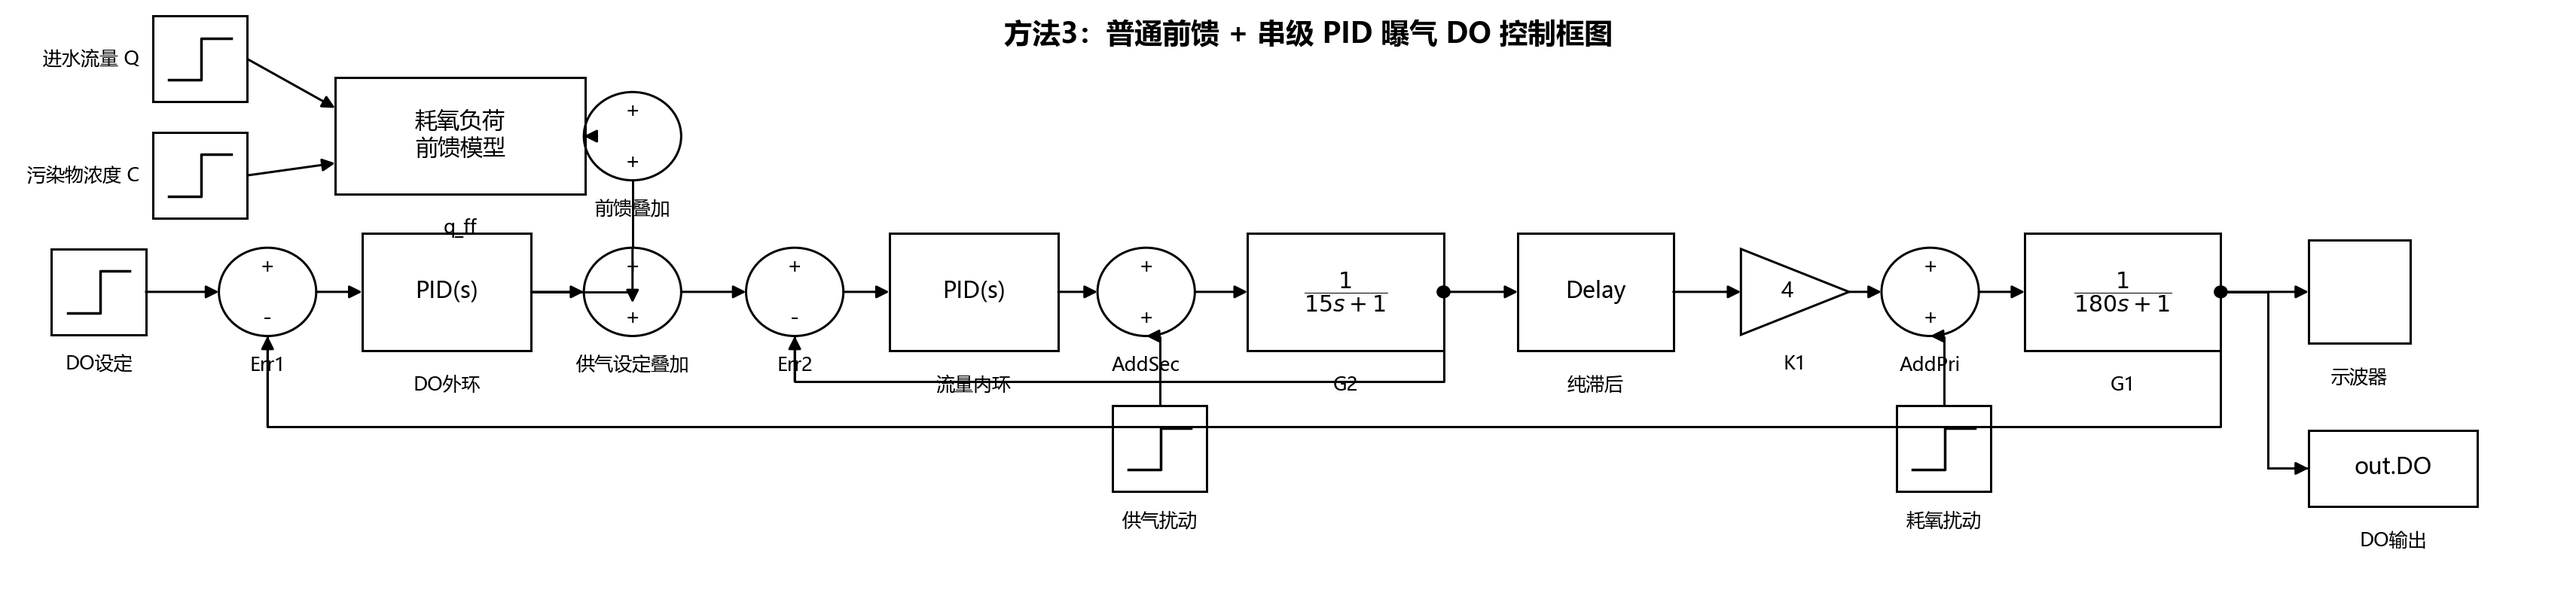
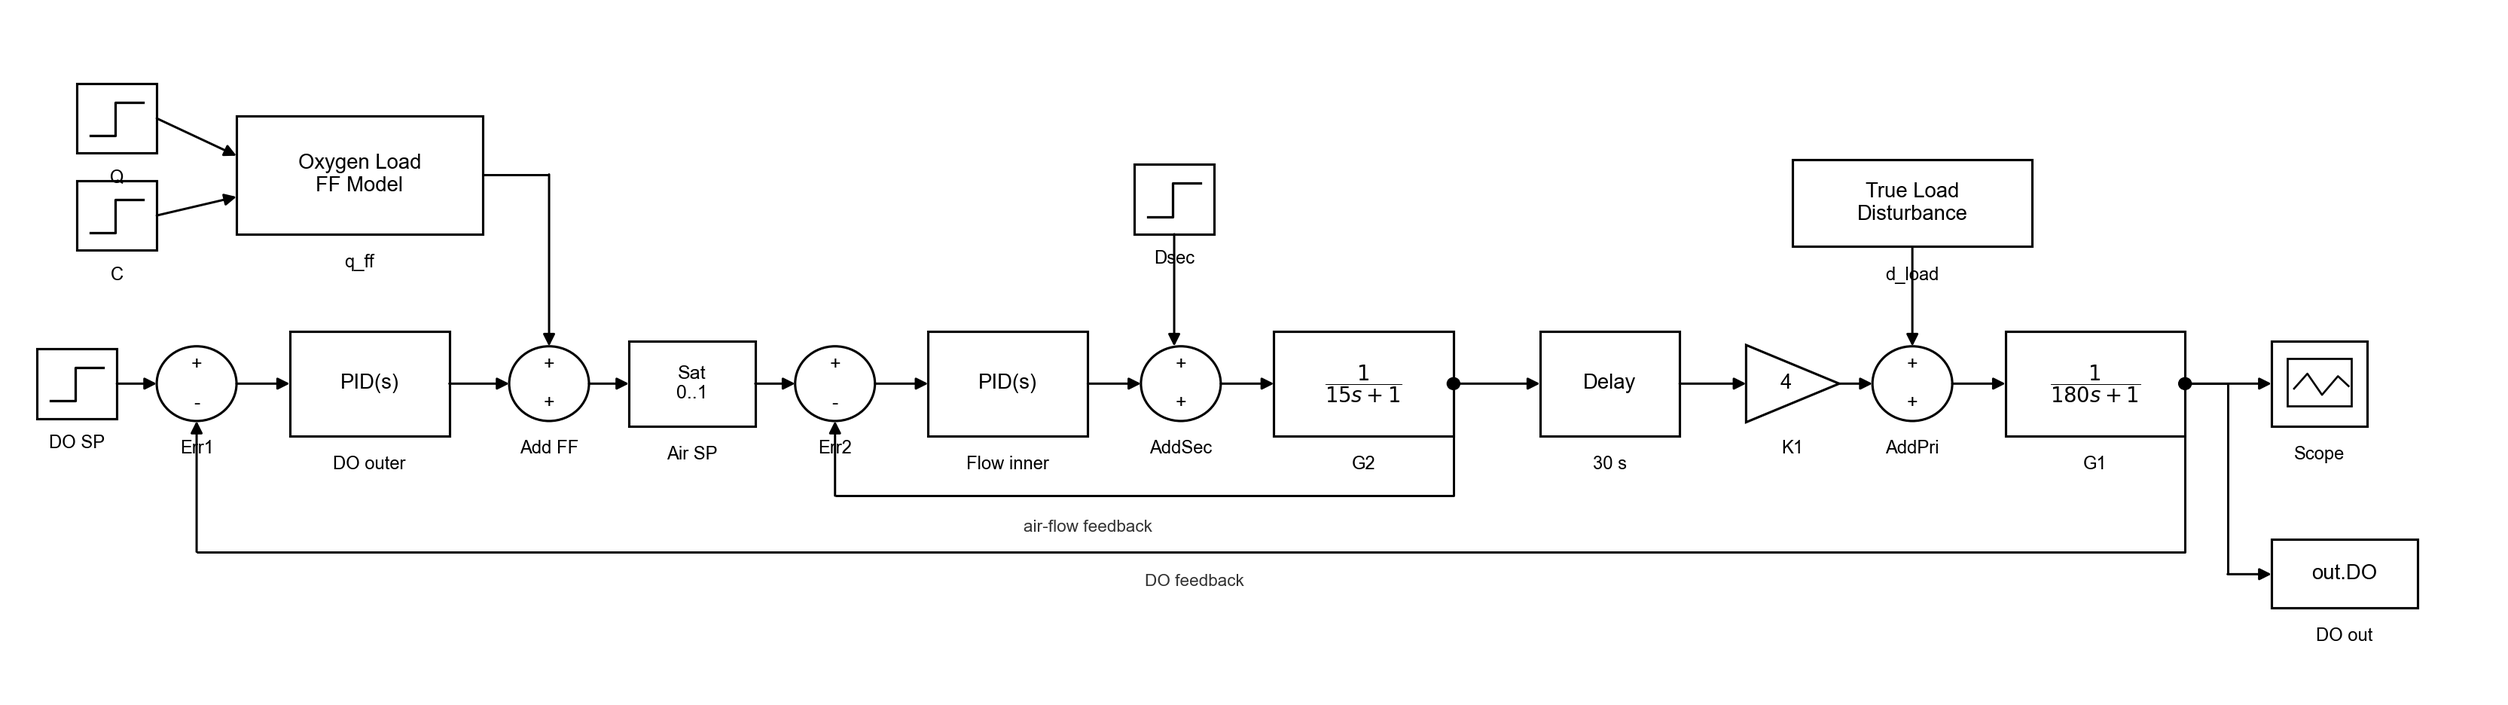
docs: redraw method3 simulink diagram

diff --git a/matlab/draw_method3_simulink_diagram.py b/matlab/draw_method3_simulink_diagram.py
@@ -1,9 +1,8 @@
 """
-Draw a Simulink-style block diagram for method 3:
-conventional feedforward + cascade PID aeration DO control.
+Draw a clean Simulink-style diagram for Method 3.
 
-Run:
-    python draw_method3_simulink_diagram.py
+Output:
+    figures/do_feedforward_cascade_diagram.png
 """
 
 from __future__ import annotations
@@ -14,68 +13,92 @@ import matplotlib.pyplot as plt
 from matplotlib.patches import Circle, Polygon, Rectangle
 
 
-def arrow(ax, start, end, **kwargs):
+def line(ax, pts, lw=1.2):
+    xs = [p[0] for p in pts]
+    ys = [p[1] for p in pts]
+    ax.plot(xs, ys, color="black", lw=lw, solid_capstyle="butt")
+
+
+def arrow(ax, start, end, lw=1.2):
     ax.annotate(
         "",
         xy=end,
         xytext=start,
         arrowprops=dict(
             arrowstyle="-|>",
-            mutation_scale=14,
-            lw=1.2,
+            mutation_scale=13,
+            lw=lw,
             color="black",
             shrinkA=0,
             shrinkB=0,
-            **kwargs,
         ),
     )
 
 
-def line(ax, xs, ys, **kwargs):
-    ax.plot(xs, ys, color="black", lw=1.2, solid_capstyle="butt", **kwargs)
+def routed_arrow(ax, pts, lw=1.2):
+    if len(pts) < 2:
+        return
+    if len(pts) > 2:
+        line(ax, pts[:-1], lw=lw)
+    arrow(ax, pts[-2], pts[-1], lw=lw)
 
 
-def block(ax, xy, wh, text, label=None, fontsize=12):
+def block(ax, xy, wh, text, label=None, fontsize=11):
     x, y = xy
     w, h = wh
-    ax.add_patch(Rectangle((x, y), w, h, fill=False, ec="black", lw=1.2))
+    ax.add_patch(Rectangle((x, y), w, h, fill=False, ec="black", lw=1.25))
     ax.text(x + w / 2, y + h / 2, text, ha="center", va="center", fontsize=fontsize)
     if label:
-        ax.text(x + w / 2, y - 0.20, label, ha="center", va="top", fontsize=10)
+        ax.text(x + w / 2, y - 0.16, label, ha="center", va="top", fontsize=9.5)
 
 
-def step_block(ax, xy, label, label_pos="below"):
+def step(ax, xy, label):
     x, y = xy
-    w, h = 0.70, 0.70
-    ax.add_patch(Rectangle((x, y), w, h, fill=False, ec="black", lw=1.2))
-    sx = [x + 0.12, x + 0.36, x + 0.36, x + 0.58]
-    sy = [y + 0.18, y + 0.18, y + 0.52, y + 0.52]
-    ax.plot(sx, sy, color="black", lw=1.4)
-    if not label:
-        return
-    if label_pos == "left":
-        ax.text(x - 0.10, y + h / 2, label, ha="right", va="center", fontsize=10)
-    elif label_pos == "right":
-        ax.text(x + w + 0.10, y + h / 2, label, ha="left", va="center", fontsize=10)
-    else:
-        ax.text(x + w / 2, y - 0.16, label, ha="center", va="top", fontsize=10)
+    w, h = 0.60, 0.56
+    ax.add_patch(Rectangle((x, y), w, h, fill=False, ec="black", lw=1.25))
+    ax.plot(
+        [x + 0.10, x + 0.29, x + 0.29, x + 0.50],
+        [y + 0.14, y + 0.14, y + 0.41, y + 0.41],
+        color="black",
+        lw=1.3,
+    )
+    ax.text(x + w / 2, y - 0.13, label, ha="center", va="top", fontsize=9.5)
 
 
-def sum_block(ax, center, signs, label):
+def scope(ax, xy, label):
+    x, y = xy
+    w, h = 0.72, 0.68
+    ax.add_patch(Rectangle((x, y), w, h, fill=False, ec="black", lw=1.25))
+    screen = Rectangle((x + 0.12, y + 0.16), w - 0.24, h - 0.30, fill=False, ec="black", lw=1.10)
+    ax.add_patch(screen)
+    ax.plot(
+        [x + 0.17, x + 0.27, x + 0.38, x + 0.50, x + 0.58],
+        [y + 0.30, y + 0.42, y + 0.25, y + 0.40, y + 0.32],
+        color="black",
+        lw=1.05,
+    )
+    ax.text(x + w / 2, y - 0.16, label, ha="center", va="top", fontsize=9.5)
+
+
+def sum_block(ax, center, label, signs=("+", "-")):
     cx, cy = center
-    r = 0.36
-    ax.add_patch(Circle((cx, cy), r, fill=False, ec="black", lw=1.2))
-    for sign, dx, dy in signs:
-        ax.text(cx + dx, cy + dy, sign, ha="center", va="center", fontsize=11)
-    ax.text(cx, cy - 0.52, label, ha="center", va="top", fontsize=10)
+    r = 0.30
+    ax.add_patch(Circle((cx, cy), r, fill=False, ec="black", lw=1.25))
+    if signs == ("+", "-"):
+        ax.text(cx, cy + 0.15, "+", ha="center", va="center", fontsize=10)
+        ax.text(cx, cy - 0.16, "-", ha="center", va="center", fontsize=10)
+    elif signs == ("+", "+"):
+        ax.text(cx, cy + 0.15, "+", ha="center", va="center", fontsize=10)
+        ax.text(cx, cy - 0.16, "+", ha="center", va="center", fontsize=10)
+    ax.text(cx, cy - 0.45, label, ha="center", va="top", fontsize=9.5)
 
 
-def gain_triangle(ax, xy, text, label):
+def gain(ax, xy, text, label):
     x, y = xy
-    tri = Polygon([[x, y], [x, y + 0.70], [x + 0.80, y + 0.35]], fill=False, ec="black", lw=1.2)
+    tri = Polygon([[x, y], [x, y + 0.62], [x + 0.70, y + 0.31]], fill=False, ec="black", lw=1.25)
     ax.add_patch(tri)
-    ax.text(x + 0.34, y + 0.35, text, ha="center", va="center", fontsize=11)
-    ax.text(x + 0.40, y - 0.16, label, ha="center", va="top", fontsize=10)
+    ax.text(x + 0.30, y + 0.31, text, ha="center", va="center", fontsize=11)
+    ax.text(x + 0.35, y - 0.14, label, ha="center", va="top", fontsize=9.5)
 
 
 def dot(ax, xy):
@@ -87,89 +110,74 @@ def main() -> None:
     out = here / "figures" / "do_feedforward_cascade_diagram.png"
     out.parent.mkdir(parents=True, exist_ok=True)
 
-    plt.rcParams["font.sans-serif"] = ["Microsoft YaHei", "SimHei", "Arial Unicode MS", "DejaVu Sans"]
+    plt.rcParams["font.sans-serif"] = ["Arial", "DejaVu Sans"]
     plt.rcParams["axes.unicode_minus"] = False
 
-    fig, ax = plt.subplots(figsize=(19.0, 4.4), facecolor="white")
+    fig, ax = plt.subplots(figsize=(18.5, 5.2), facecolor="white")
     ax.set_xlim(0, 18.8)
-    ax.set_ylim(0, 4.8)
+    ax.set_ylim(0, 5.6)
     ax.axis("off")
 
-    y = 2.45
+    y = 2.55
 
     # Main cascade path.
-    step_block(ax, (0.15, y - 0.35), "DO设定")
-    sum_block(ax, (1.75, y), [("+", 0.00, 0.20), ("-", 0.00, -0.22)], "Err1")
-    block(ax, (2.45, y - 0.48), (1.25, 0.96), "PID(s)", "DO外环")
-    sum_block(ax, (4.45, y), [("+", 0.00, 0.20), ("+", 0.00, -0.22)], "供气设定叠加")
-    sum_block(ax, (5.65, y), [("+", 0.00, 0.20), ("-", 0.00, -0.22)], "Err2")
-    block(ax, (6.35, y - 0.48), (1.25, 0.96), "PID(s)", "流量内环")
-    sum_block(ax, (8.25, y), [("+", 0.00, 0.20), ("+", 0.00, -0.22)], "AddSec")
-    block(ax, (9.00, y - 0.48), (1.45, 0.96), r"$\dfrac{1}{15s+1}$", "G2")
-    block(ax, (11.00, y - 0.48), (1.15, 0.96), "Delay", "纯滞后")
-    gain_triangle(ax, (12.65, y - 0.35), "4", "K1")
-    sum_block(ax, (14.05, y), [("+", 0.00, 0.20), ("+", 0.00, -0.22)], "AddPri")
-    block(ax, (14.75, y - 0.48), (1.45, 0.96), r"$\dfrac{1}{180s+1}$", "G1")
-    block(ax, (16.85, y - 0.42), (0.75, 0.84), "", "示波器")
-    block(ax, (16.85, 0.70), (1.25, 0.62), "out.DO", "DO输出")
+    step(ax, (0.25, y - 0.28), "DO SP")
+    sum_block(ax, (1.45, y), "Err1", ("+", "-"))
+    block(ax, (2.15, y - 0.42), (1.20, 0.84), "PID(s)", "DO outer")
+    sum_block(ax, (4.10, y), "Add FF", ("+", "+"))
+    block(ax, (4.70, y - 0.34), (0.95, 0.68), "Sat\n0..1", "Air SP", fontsize=10)
+    sum_block(ax, (6.25, y), "Err2", ("+", "-"))
+    block(ax, (6.95, y - 0.42), (1.20, 0.84), "PID(s)", "Flow inner")
+    sum_block(ax, (8.85, y), "AddSec", ("+", "+"))
+    block(ax, (9.55, y - 0.42), (1.35, 0.84), r"$\dfrac{1}{15s+1}$", "G2")
+    block(ax, (11.55, y - 0.42), (1.05, 0.84), "Delay", "30 s")
+    gain(ax, (13.10, y - 0.31), "4", "K1")
+    sum_block(ax, (14.35, y), "AddPri", ("+", "+"))
+    block(ax, (15.05, y - 0.42), (1.35, 0.84), r"$\dfrac{1}{180s+1}$", "G1")
+    scope(ax, (17.05, y - 0.34), "Scope")
+    block(ax, (17.05, 0.75), (1.10, 0.55), "out.DO", "DO out")
 
-    # Main arrows.
-    arrow(ax, (0.85, y), (1.39, y))
-    arrow(ax, (2.11, y), (2.45, y))
-    arrow(ax, (3.70, y), (4.09, y))
-    arrow(ax, (4.81, y), (5.29, y))
-    arrow(ax, (6.01, y), (6.35, y))
-    arrow(ax, (7.60, y), (7.89, y))
-    arrow(ax, (8.61, y), (9.00, y))
-    arrow(ax, (10.45, y), (11.00, y))
-    arrow(ax, (12.15, y), (12.65, y))
-    arrow(ax, (13.45, y), (13.69, y))
-    arrow(ax, (14.41, y), (14.75, y))
-    arrow(ax, (16.20, y), (16.85, y))
-    line(ax, [16.20, 16.55, 16.55, 16.85], [y, y, 1.01, 1.01])
-    arrow(ax, (16.55, 1.01), (16.85, 1.01))
+    # Main signal arrows.
+    arrow(ax, (0.85, y), (1.15, y))
+    arrow(ax, (1.75, y), (2.15, y))
+    arrow(ax, (3.35, y), (3.80, y))
+    arrow(ax, (4.40, y), (4.70, y))
+    arrow(ax, (5.65, y), (5.95, y))
+    arrow(ax, (6.55, y), (6.95, y))
+    arrow(ax, (8.15, y), (8.55, y))
+    arrow(ax, (9.15, y), (9.55, y))
+    arrow(ax, (10.90, y), (11.55, y))
+    arrow(ax, (12.60, y), (13.10, y))
+    arrow(ax, (13.80, y), (14.05, y))
+    arrow(ax, (14.65, y), (15.05, y))
+    arrow(ax, (16.40, y), (17.05, y))
+    routed_arrow(ax, [(16.40, y), (16.72, y), (16.72, 1.02), (17.05, 1.02)])
 
-    # Secondary and primary disturbances.
-    step_block(ax, (8.00, 0.82), "供气扰动")
-    line(ax, [8.35, 8.35], [1.52, 2.09])
-    arrow(ax, (8.35, 2.09), (8.25, 2.09))
+    # Feedforward layer.
+    step(ax, (0.55, 4.40), "Q")
+    step(ax, (0.55, 3.62), "C")
+    block(ax, (1.75, 3.75), (1.85, 0.95), "Oxygen Load\nFF Model", "q_ff")
+    routed_arrow(ax, [(1.15, 4.68), (1.75, 4.38)])
+    routed_arrow(ax, [(1.15, 3.90), (1.75, 4.05)])
+    routed_arrow(ax, [(3.60, 4.23), (4.10, 4.23), (4.10, 2.85)])
 
-    step_block(ax, (13.80, 0.82), "耗氧扰动")
-    line(ax, [14.15, 14.15], [1.52, 2.09])
-    arrow(ax, (14.15, 2.09), (14.05, 2.09))
+    # Optional air-side disturbance, routed from above to avoid feedback lines.
+    step(ax, (8.50, 3.75), "Dsec")
+    routed_arrow(ax, [(8.80, 3.75), (8.80, 2.85)])
 
-    # Feedforward branch.
-    step_block(ax, (0.90, 4.00), "进水流量 Q", label_pos="left")
-    step_block(ax, (0.90, 3.05), "污染物浓度 C", label_pos="left")
-    block(ax, (2.25, 3.25), (1.85, 0.95), "耗氧负荷\n前馈模型", "q_ff")
-    sum_block(ax, (4.45, 3.72), [("+", 0.00, 0.20), ("+", 0.00, -0.22)], "前馈叠加")
+    # Primary oxygen-load disturbance, also routed from above.
+    block(ax, (13.45, 3.65), (1.80, 0.70), "True Load\nDisturbance", "d_load")
+    routed_arrow(ax, [(14.35, 3.65), (14.35, 2.85)])
 
-    arrow(ax, (1.60, 4.35), (2.25, 3.95))
-    arrow(ax, (1.60, 3.40), (2.25, 3.50))
-    arrow(ax, (4.10, 3.72), (4.09, 3.72))
-    line(ax, [4.45, 4.45], [3.36, 2.81])
-    arrow(ax, (4.45, 2.81), (4.45, 2.36))
-    line(ax, [3.70, 4.45], [y, y])
+    # Inner-loop flow feedback: separate level.
+    dot(ax, (10.90, y))
+    routed_arrow(ax, [(10.90, y), (10.90, 1.65), (6.25, 1.65), (6.25, 2.25)])
+    ax.text(8.15, 1.46, "air-flow feedback", ha="center", va="top", fontsize=9, color="#333333")
 
-    # Inner-loop flow feedback from G2 output to Err2 negative input.
-    dot(ax, (10.45, y))
-    line(ax, [10.45, 10.45, 5.65, 5.65], [y, 1.72, 1.72, 2.09])
-    arrow(ax, (5.65, 1.72), (5.65, 2.09))
-
-    # DO feedback to outer loop negative input.
-    dot(ax, (16.20, y))
-    line(ax, [16.20, 16.20, 1.75, 1.75], [y, 1.35, 1.35, 2.09])
-    arrow(ax, (1.75, 1.35), (1.75, 2.09))
-
-    ax.text(
-        9.45,
-        4.55,
-        "方法3：普通前馈 + 串级 PID 曝气 DO 控制框图",
-        ha="center",
-        va="center",
-        fontsize=15,
-        fontweight="bold",
-    )
+    # DO feedback: lower separate level.
+    dot(ax, (16.40, y))
+    routed_arrow(ax, [(16.40, y), (16.40, 1.20), (1.45, 1.20), (1.45, 2.25)])
+    ax.text(8.95, 1.02, "DO feedback", ha="center", va="top", fontsize=9, color="#333333")
 
     fig.tight_layout(pad=0.2)
     fig.savefig(out, dpi=180)
